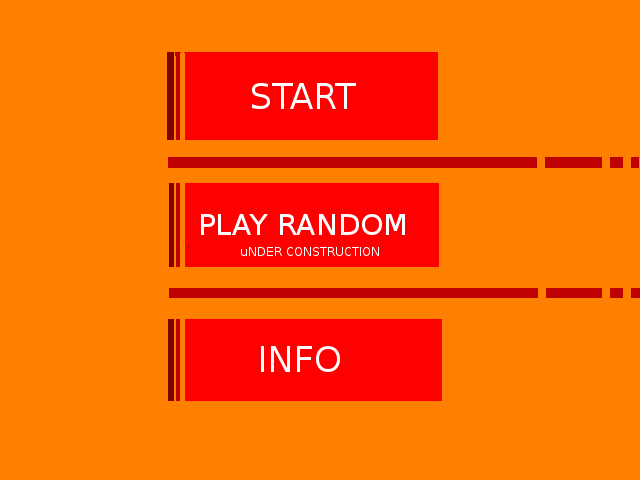
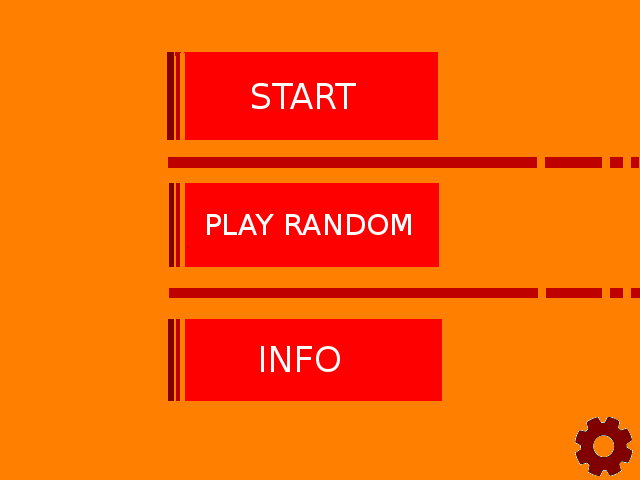
Random Levels added. Scene Transition Manager upcoming

Changed region(s): [[0.3125, 0.4375, 0.6562, 0.5312], [0.875, 0.875, 1.0, 1.0]]

diff --git a/js/events.js b/js/events.js
@@ -31,8 +31,8 @@ var EventHandlers = new function() {
 					else if(mouse.y > (option + ImageResource[7].y) && 
 						mouse.y < (2*option + ImageResource[7].y)) 
 						DxBall.resume();  
-					else
-						DxBall.setState(GameStates.LEVEL_SELECT) ;  
+					else 
+						DxBall.setState(DxBall.prevstate) ;  
 				}
 			break ;
 			case 'mousemove' :
@@ -132,6 +132,8 @@ var EventHandlers = new function() {
 						DxBall.setLevel(i);
 						DxBall.start(); 
 					}
+				if(EventUtilities.checkBounds(mouse, 0, 380, 50, 430))
+					DxBall.setState(GameStates.START_SCREEN) ;
 			break; 
 			
 			case 'mousemove':
@@ -147,6 +149,10 @@ var EventHandlers = new function() {
 						DxBall.canvas.style.cursor = 'pointer' ;
 					else
 						DxBall.canvas.style.cursor = 'default' ;
+				if(EventUtilities.checkBounds(mouse, 0, 380, 50, 430))
+					DxBall.canvas.style.cursor = 'pointer' ;
+				else
+					DxBall.canvas.style.cursor = 'default' ;
 			break;
 		}
 	}
@@ -175,7 +181,8 @@ var EventHandlers = new function() {
 				}; 
 				
 				if(EventUtilities.checkBounds(mouse, 204, DxBall.HEIGHT-90, 435, 480)) 
-					DxBall.setState(GameStates.LEVEL_SELECT) ; 
+					DxBall.playRandom ? DxBall.setState(GameStates.START_SCREEN) :
+					DxBall.setState(GameStates.LEVEL_SELECT) ;
 			break ; 
 			case 'mousemove' : 
 				var mouse = {
@@ -196,7 +203,8 @@ var EventHandlers = new function() {
 	handleEvent : function(evt) {
 		switch(evt.type) {
 			case 'click' : 
-				DxBall.setState(GameStates.LEVEL_SELECT) ; 
+				DxBall.playRandom ? DxBall.setState(GameStates.START_SCREEN) :
+					DxBall.setState(GameStates.LEVEL_SELECT) ;
 			break ;
 			case 'mousemove' : 
 				DxBall.canvas.style.cursor = 'pointer' ; 
@@ -231,6 +239,11 @@ var EventHandlers = new function() {
 					DxBall.setState(GameStates.LEVEL_SELECT); 
 				else if(EventUtilities.checkBounds(mouse, 170, 322, 437, 392))
 					DxBall.setState(GameStates.INFO_SCREEN);
+				else if(EventUtilities.checkBounds(mouse, 170, 180, 437, 265)) {
+					DxBall.playRandom = true ;
+					DxBall.setState(GameStates.RUNNING);
+					DxBall.start();
+				}
 			break ;
 			
 			case 'mousemove' :
@@ -240,7 +253,8 @@ var EventHandlers = new function() {
 				}; 
 				
 				if(EventUtilities.checkBounds(mouse, 170, 55, 437, 140)
-				   || EventUtilities.checkBounds(mouse, 170, 322, 437, 392)) 
+				   || EventUtilities.checkBounds(mouse, 170, 322, 437, 392)
+				   || EventUtilities.checkBounds(mouse, 170, 180, 437, 265)) 
 					DxBall.canvas.style.cursor = 'pointer' ;
 				else
 					DxBall.canvas.style.cursor = 'default' ;

diff --git a/js/main.js b/js/main.js
@@ -10,7 +10,7 @@
 				 INFO_SCREEN : 8,
 				 START_SCREEN : 9,
 			 });
- 
+
 var DrawGameScenes = new function() {
 	
 	var self = this ; 
@@ -112,7 +112,9 @@ var DxBall = new function() {
 	
 	self.state = GameStates.SPLASH_SCREEN ; 
 	self.pstate = GameStates.INVALID ; 
+	self.prevstate = GameStates.INVALID ;
 	self.playstate = true ; 
+	self.playRandom = false ;
 	self.loop = 0 ; 
 	self.level = 0 ; 
 	self.bricks = 0 ; 
@@ -153,7 +155,10 @@ var DxBall = new function() {
 	
 	self.setState = function(state) {
 		self.pstate = self.state ; 
+		self.prevstate = self.state ;
 		self.state = state ; 
+		if(state == GameStates.RUNNING)
+			self.shouldDrawHUDinGame = true ;
 	};
 	
 	self.addPoints = function(val) {
@@ -194,6 +199,7 @@ var DxBall = new function() {
 		points += temp_points ; 
 		prev_points = temp_points ;
 		temp_points = 0 ;
+		licondata[DxBall.level].unlocked = true ;
 	};
 	
 	self.getPointsScored = function() {
@@ -216,7 +222,7 @@ var DxBall = new function() {
 	
 	self.start = function() {
 		clearTimeout(self.loop); 
-		GameObjects.init();
+		self.playRandom ? GameObjects.generateRandomLevel() : GameObjects.init();
 		self.playState = true ; 
 		self.initTimer() ;
 		DxBallGameLoop(); 
@@ -229,6 +235,10 @@ var DxBall = new function() {
 	self.pause = function() {
 		self.state = GameStates.PAUSED ;
 	}
+	
+	self.update = function() {
+		
+	};
 };
 
 function DxBallGameLoop() {
@@ -244,11 +254,10 @@ function DxBallGameLoop() {
 		GameObjects.gift.move();
 		DxBall.playState = CollisionSystem.handleCollisions(); 
 		if(!DxBall.playState) 
-			DxBall.state = GameStates.GAME_OVER ;
+			DxBall.setState(GameStates.GAME_OVER) ;
 		if(DxBall.isComplete()) {
-			DxBall.state = GameStates.LEVEL_COMPLETE ; 
-			DxBall.nextLevel() ;
-			licondata[DxBall.level].unlocked = true ; 
+			DxBall.setState(GameStates.LEVEL_COMPLETE) ; 
+			DxBall.nextLevel() ; 
 		} 
 	}
 	DxBall.loop = setTimeout(DxBallGameLoop, 1000/DxBall.FPS); 

diff --git a/js/gameobjs.js b/js/gameobjs.js
@@ -282,6 +282,13 @@ var GameObjects = new function() {
 			gifts[DxBall.level].row); 
 		self.giftCollected = false ;
 	};
+	
+	self.initRandomGift = function() {
+		var type = Math.floor(Math.random()*3) + 1;
+		var x = Math.floor(Math.random()*8);
+		var y = Math.floor(Math.random()*8);
+		self.gift = new Gift(type, x, y); 
+	};
 
 	self.initBall = function() {
 		self.ball.x = BallDefaults.X ;
@@ -300,6 +307,26 @@ var GameObjects = new function() {
 				if(self.bricks[i][j].visible && self.bricks[i][j].destructible != 0)
 					++totalBricks ; 
 			}
+		}
+		DxBall.setBricks(totalBricks); 
+	};
+	
+	self.initRandomBricks = function() {
+		var totalBricks = 0, i, j ; 
+		for (i=0; i < DxBall.NROWS; i++) {
+			self.bricks[i] = new Array(DxBall.NCOLS);
+			for (j=0; j < DxBall.NCOLS; j++) {
+				self.bricks[i][j] = new Brick(Math.floor(Math.random()*7)); 
+				if(self.bricks[i][j].visible && self.bricks[i][j].destructible != 0)
+					++totalBricks ; 
+			}
+			if(totalBricks > 25)
+				break ;
+		}
+		for (--i; i < DxBall.NROWS; i++) {
+			self.bricks[i] = new Array(DxBall.NCOLS);
+			for (j=0; j < DxBall.NCOLS; j++)
+				self.bricks[i][j] = new Brick(0);
 		}
 		DxBall.setBricks(totalBricks); 
 	};
@@ -371,6 +398,12 @@ var GameObjects = new function() {
 		self.initBall();
 		self.initBricks();
 		self.initGifts();
+	};
+	
+	self.generateRandomLevel = function() {
+		self.initBall();
+		self.initRandomBricks();
+		self.initRandomGift();
 	};
 	
 	self.draw = function() {

diff --git a/js/resources.js b/js/resources.js
@@ -38,7 +38,7 @@ function Resource(res) {
 	self.width = res.width ;
 }
 
-var ImageResource = [] ; 
+ImageResource = [] ; 
 
 var licondata = new Array(6);
 
